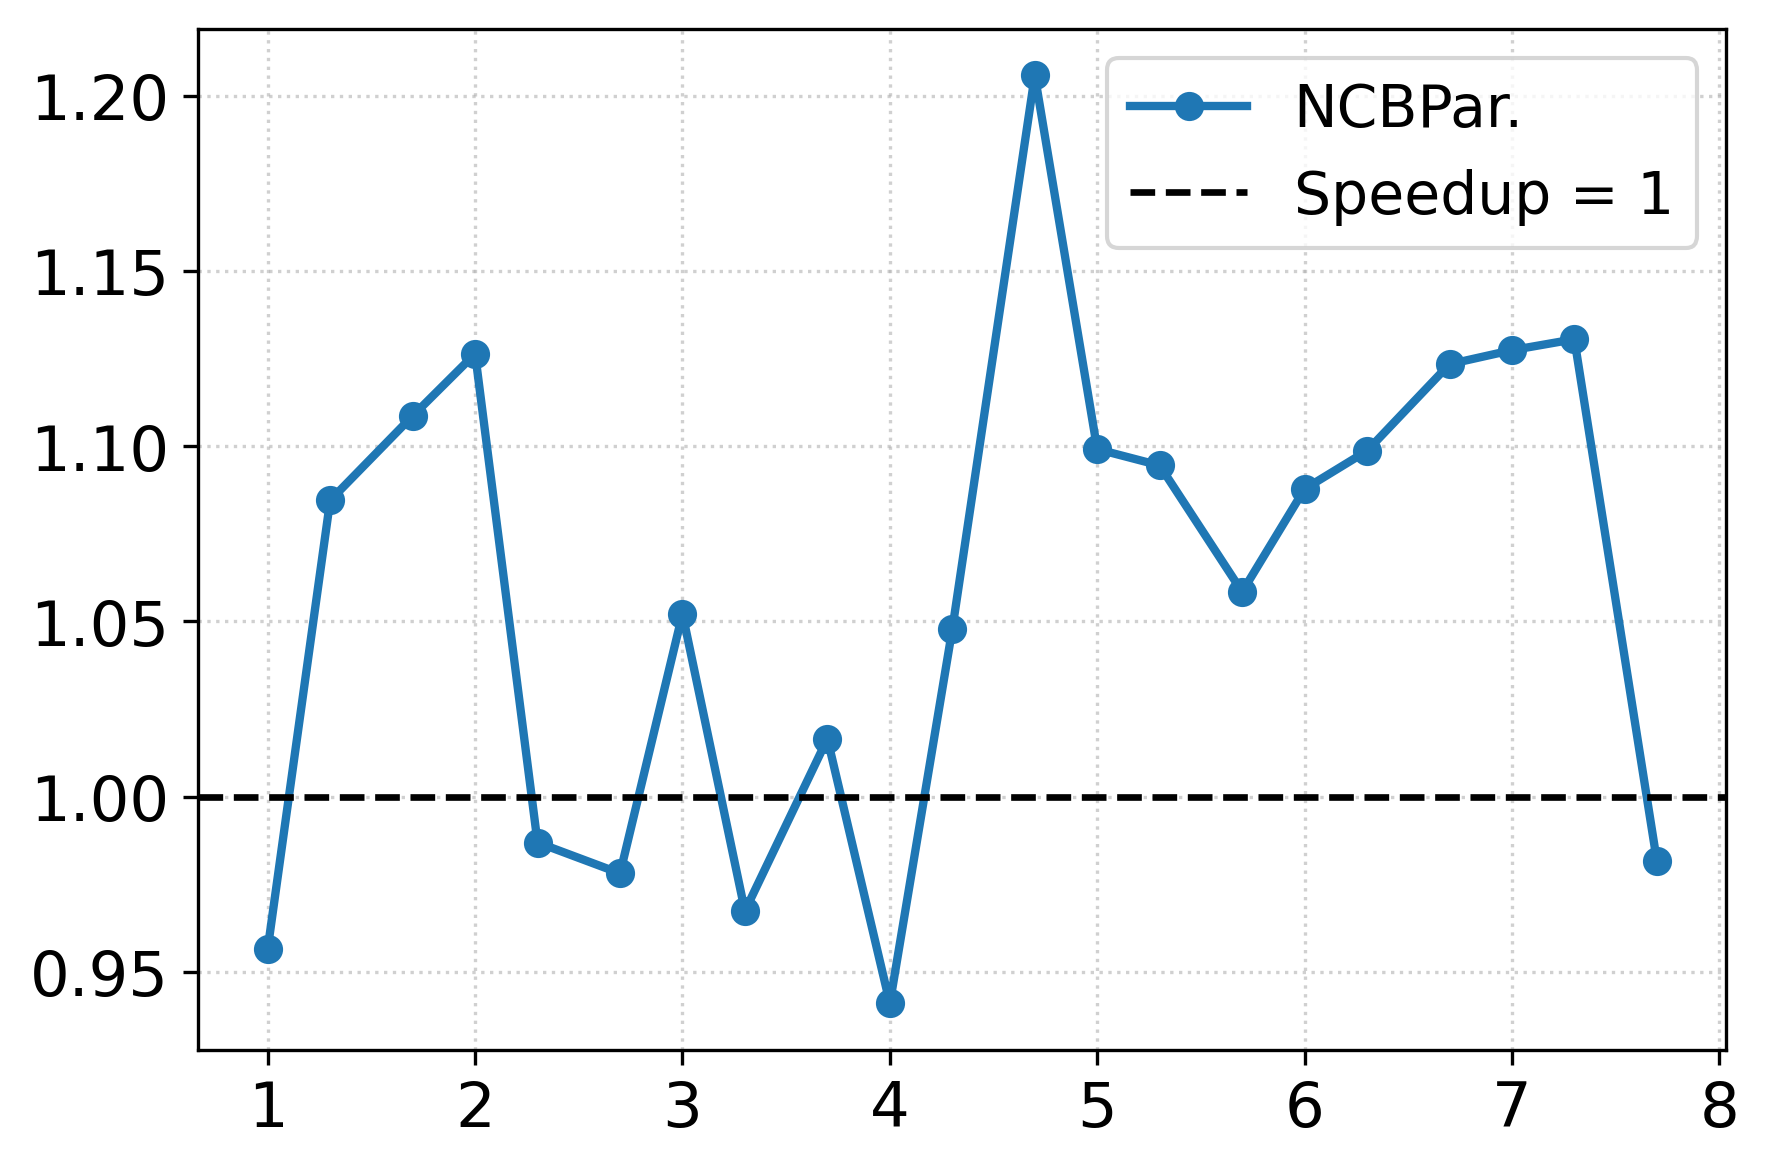
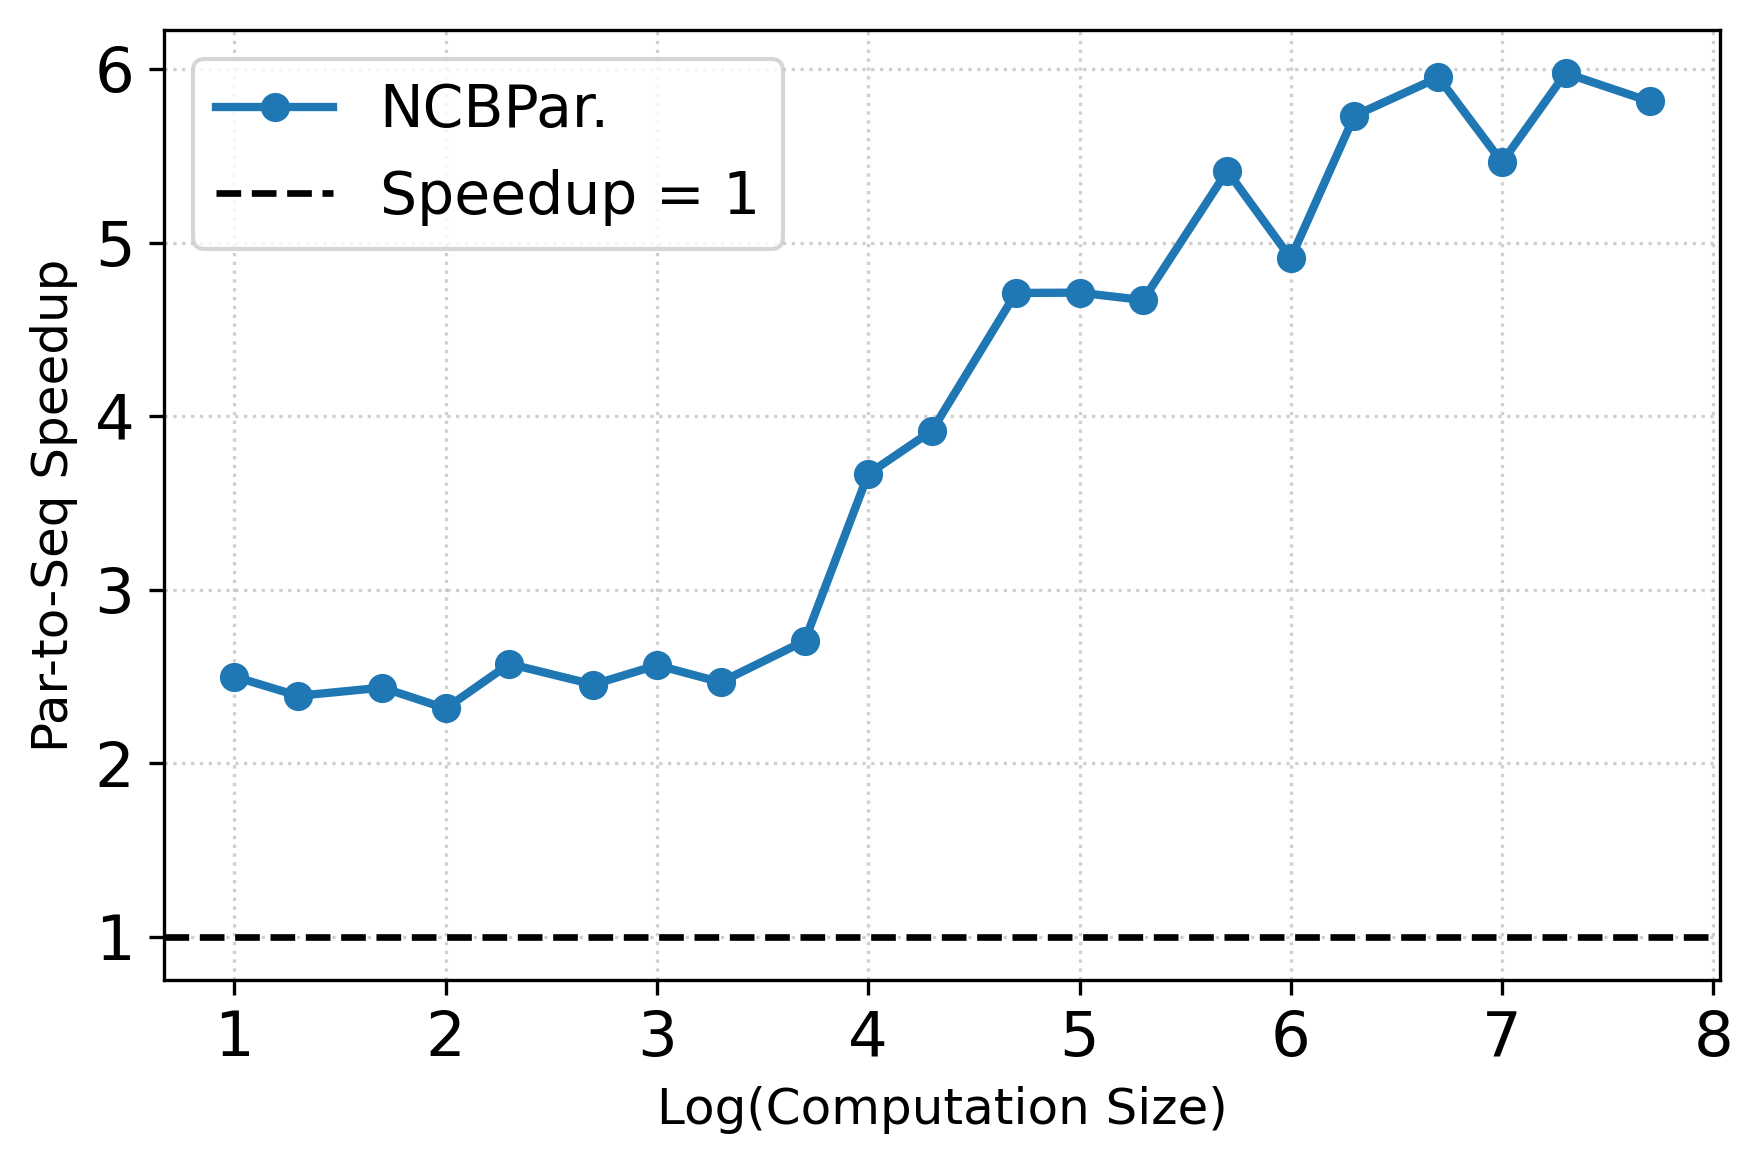
kmeans plot

diff --git a/reports/speedup_plot_veracity.py b/reports/speedup_plot_veracity.py
@@ -41,13 +41,15 @@ plt.axhline(y=1, color='black', linestyle='--', label='Speedup = 1', linewidth=2
 plt.xticks(fontsize=15)
 plt.yticks(fontsize=15)
 
-plt.xlabel('Log(Computation Size)', fontsize=15)
-plt.ylabel('Parallel-to-Sequential Speedup', fontsize=15)
+# plt.xlabel('Log(Computation Size)', fontsize=15)
+# plt.ylabel('Parallel-to-Sequential Speedup', fontsize=15)
 plt.grid(True)
 
-plt.savefig(output_plot_file)
+plt.savefig(output_plot_file, dpi=300, bbox_inches='tight', transparent=True)
 
+plt.xlabel('Log(Computation Size)', fontsize=15)
+plt.ylabel('Parallel-to-Sequential Speedup', fontsize=15)
 plt.legend()
-plt.savefig(output_plot_file_apx)
+plt.savefig(output_plot_file_apx, dpi=300, bbox_inches='tight', transparent=True)
 
 print(f"Plot saved successfully at {output_plot_file}")

diff --git a/reports/speedup_plot.py b/reports/speedup_plot.py
@@ -26,6 +26,10 @@ def create_plot(data, benchmark, output_dir):
 
     plt.xticks(fontsize=15)
     plt.yticks(fontsize=15)
+
+
+    plt.xlabel('Log(Computation Size)', fontsize=12)
+    plt.ylabel('Par-to-Seq Speedup', fontsize=12)
     
     plt.legend(loc='best', fontsize=14)
     plt.grid(True, linestyle=':', alpha=0.6)
